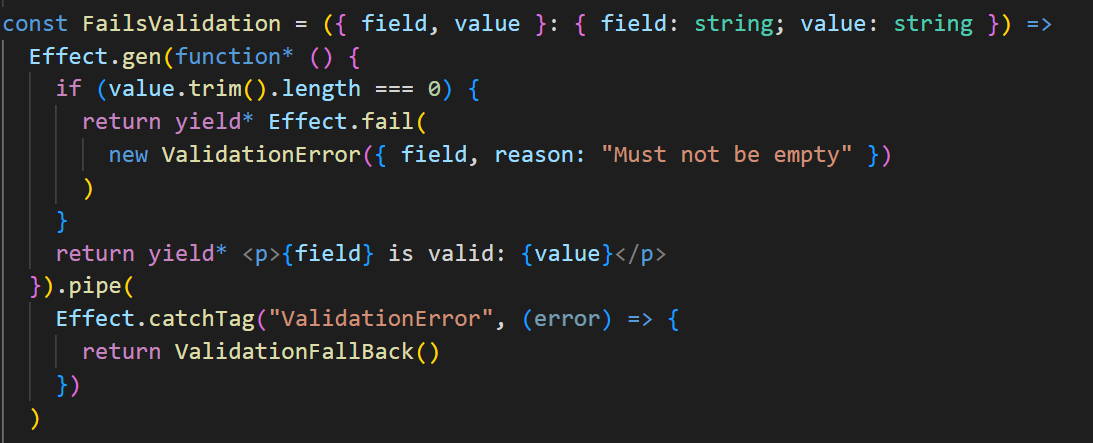
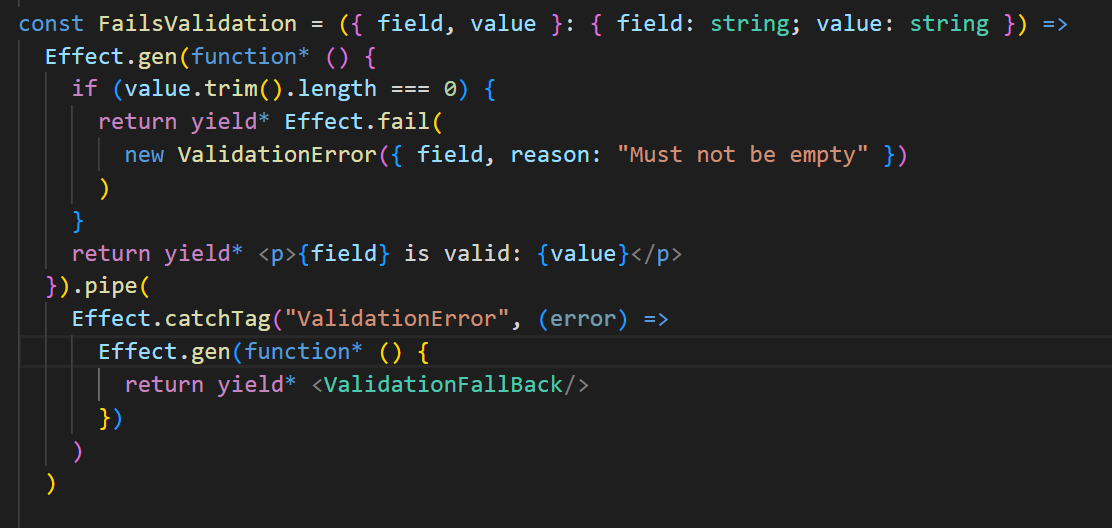
fix readme examples

Changed region(s): [[0.0, 0.0293, 0.9643, 0.9684]]

diff --git a/sample/effect-test/effect-test.tsx b/sample/effect-test/effect-test.tsx
@@ -175,9 +175,11 @@ const FailsValidation = ({ field, value }: { field: string; value: string }) =>
     }
     return yield* <p>{field} is valid: {value}</p>
   }).pipe(
-    Effect.catchTag("ValidationError", (error) => {
-      return ValidationFallBack()
-    })
+    Effect.catchTag("ValidationError", (error) => 
+      Effect.gen(function* () {
+        return yield* <ValidationFallBack/>
+      })
+    )
   )
 
 

diff --git a/README.md b/README.md
@@ -33,24 +33,22 @@ This is similar to how Svelte handles `.svelte` files. See the Svelte language t
 ### Why should you care?
 Apart from that it improves typesafety of JSX overall.
 
-This allows us to build next level typesafe frontend frameworks.
+This allows us to build next level UI frameworks (with insane typesafety).
 e.g. Based on [Effect-TS](https://effect.website/)
 
 ![Effect-TS-framework](images/app-global-errors.png)
 
 _This doesn't look as nice as React. But have you noticed? We are tracking all
-possible ways our UI can fail with in the typesystem. (MyCustomError, ValidationError, NotFoundError)_
+possible ways our UI can fail within the typesystem. (`MyCustomError`, `ValidationError`, `NotFoundError`)_
 
 
 ![show-fallback](images/catch-specific-error.png)
 _We can catch a specific error and show a fallback UI_
-And showing fallback UI for different errors, much
-more easily.
 
-After we took care of the error we already have two left
+After we took care of the error we only have two left
 ![two-errors-left](images/app-after-catching-error.png)
 
-_After handling the ValidationError, typesystem shows two errors that we didn't handle yet._
+_After handling the `ValidationError`, typesystem shows two errors that we didn't handle yet. (`MyCustomError`, `NotFoundError`)_
 
 ### Current state
 For now this is done through language server. But also a solution should be made
